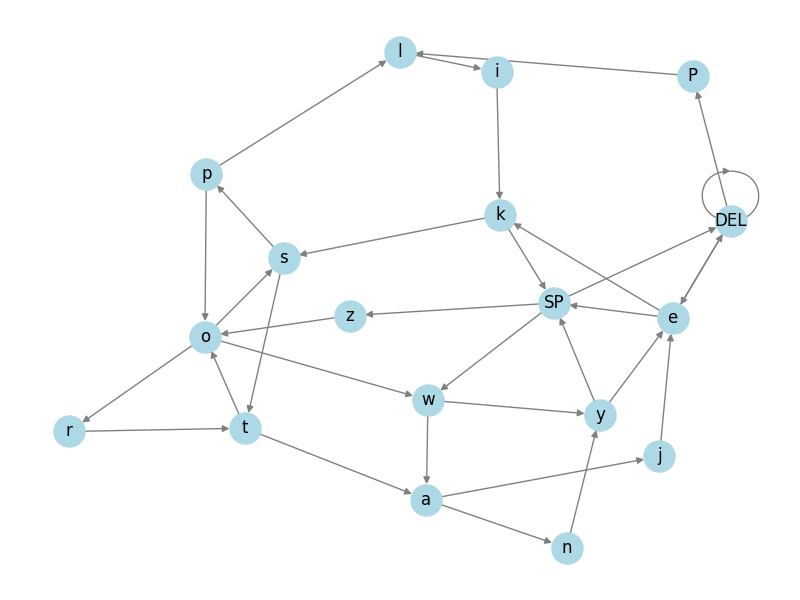
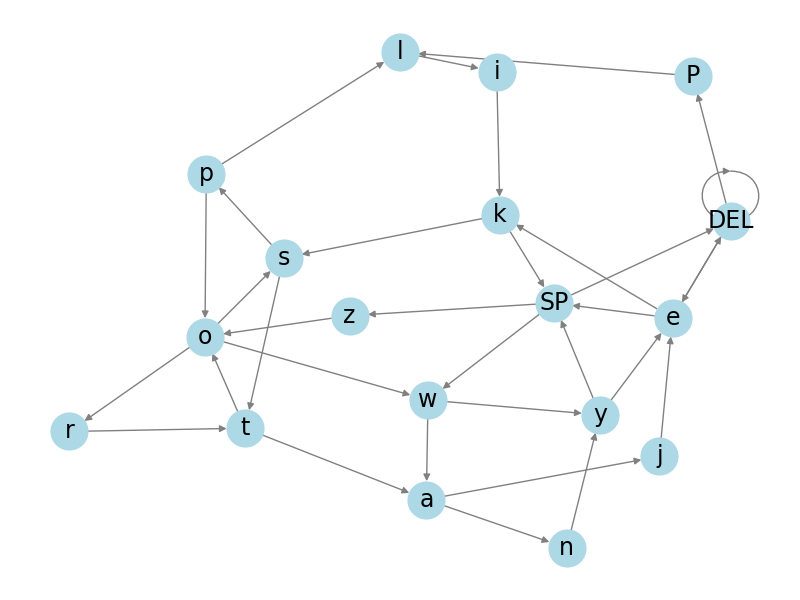
add bigger text

diff --git a/chapters/05-s1-gnn-features.tex b/chapters/05-s1-gnn-features.tex
@@ -22,8 +22,8 @@ The structure of the resulting graph highly depends on the length of the input s
 
 \begin{figure}[H]
 	\centering
-	\includegraphics[width=0.45\textwidth]{images/len40_graph_other_layout.png}
-	\includegraphics[width=0.45\textwidth]{images/len70_graph_other_layout.png}
+	\includegraphics[width=0.49\textwidth]{images/len40_graph_other_layout.png}
+	\includegraphics[width=0.49\textwidth]{images/better_70_char_graph.png}
 	\caption{Comparison of graphs constructed with different input sequence lengths of 40 and 70.}%
 	\label{fig:multiple graphs}%
 \end{figure}
@@ -58,8 +58,9 @@ Three methods were considered, all of which are variations of one-hot encoding o
 \end{enumerate}
 
 
-These methods differ by their degree of aggregation. Methods $2$ and $3$ group certain letters together, mapping multiple characters to the same values, while method $1$ provides a unique, one-hot encoded identifier for each node \cite{you2021identityawaregraphneuralnetworks}.
-found that such node identifiers helped the model to learn certain structures in the data. However, providing node identifiers as input features works well only for a small and defined set of possible input nodes \cite{Lesk2024}. While this requirement appears to hold true for this specific task, it was found not to be the case.
+These methods differ by their degree of aggregation. Methods $2$ and $3$ group certain letters together, mapping multiple characters to the same values, while method $1$ provides a unique, one-hot encoded identifier for each node. Node identifiers have been found to help the model to learn certain structures in the data \cite{you2021identityawaregraphneuralnetworks}. 
+
+However, providing node identifiers as input features works well only for a small and defined set of possible input nodes \cite{Lesk2024}. While this requirement appears to hold true for this specific task, it was found not to be the case.
 Many letters that appear to be common are, in fact, infrequent in the dataset. This is especially true for capitalised letters. For example the letter \textit{'f'} appears 134 times, whereas \textit{'F'} appears only 6 times. This is even more true for symbols, many of which appear only once in the entire dataset, these being: \textit{'\{'}, \textit{'\%'}, \textit{'*'}, \textit{':'} and \textit{'\#'}.
 This means that the behavior of the models would be unpredictable for nodes with such identifiers.\\
 Method $2$ addresses the problem in the case of symbols and numbers. It does not, however help with processing infrequent capitalized diacritical letters. For example, \textit{'l'} appears 875 times, \textit{"ł"} 138 times, \textit{"L"} 10 times and \textit{"Ł"} only twice. With such a low number of occurances it is unlikely that the models could learn the relationship between these letters. \\
